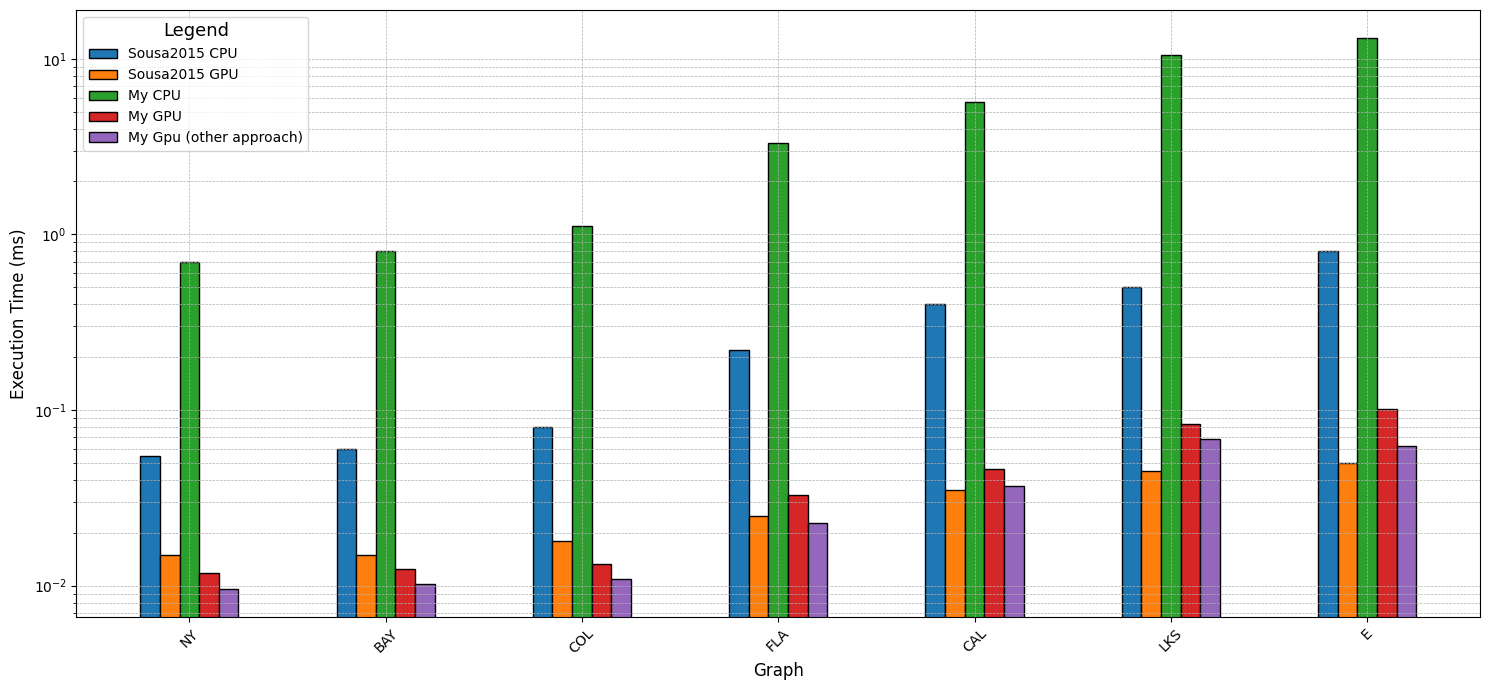
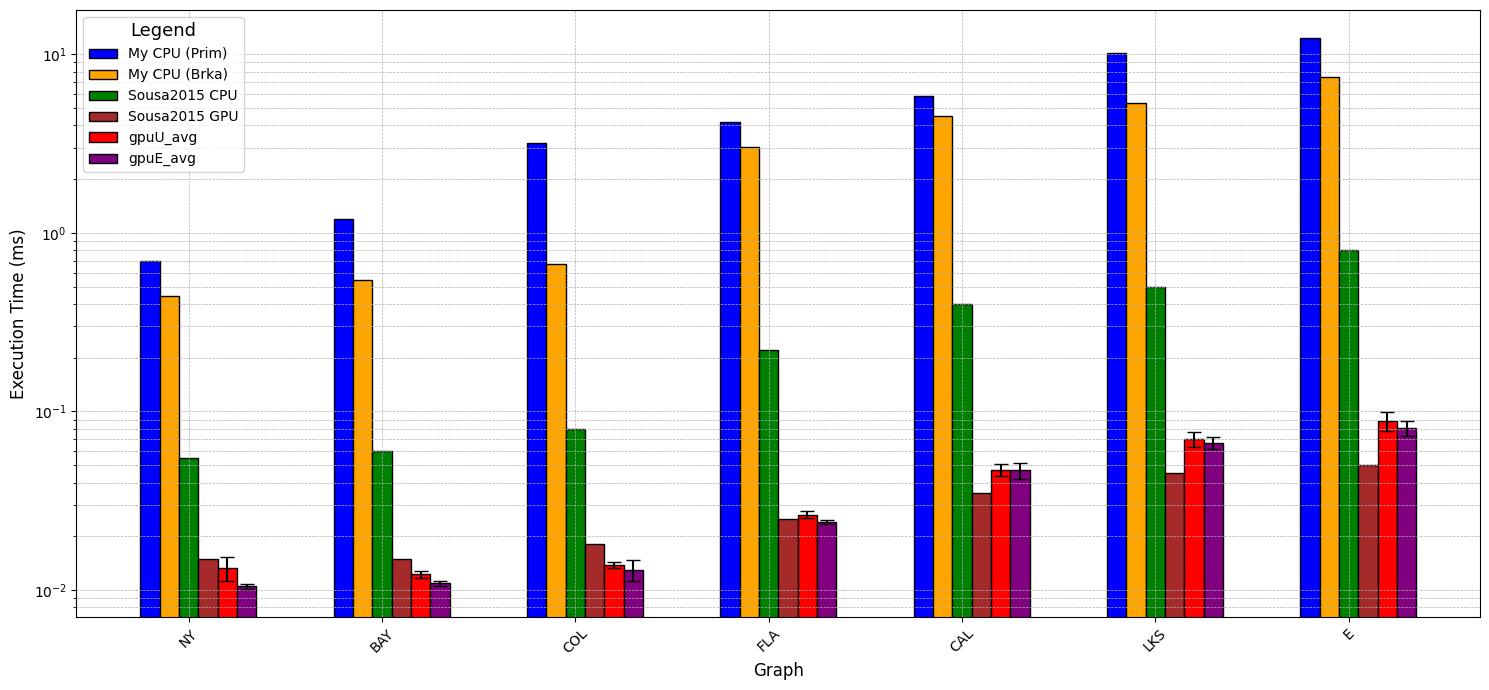
Roba non ne posso più

Changed region(s): [[0.0309, 0.0304, 1.0, 0.9435]]

diff --git a/main.tex b/main.tex
@@ -49,9 +49,9 @@ In my implementation I have implemented both the Na\"ive version and the one usi
 
 Kruskal's algorithm is the alternative to Prim's algorithm and it works in time $\O(m\log{m})$ if implemented using classical data structures.
 
-\brka's algorithm is a solver for the \mstp based on forests, a more verbose version of the algorithm shown in~\cite{boruvka-pseudocode} can be found in~\ref{algo:boruvka-pseudocode}
+\brkas algorithm is a solver for the \mstp based on forests, a more verbose version of the algorithm shown in~\cite{boruvka-pseudocode} can be found in~\ref{algo:boruvka-pseudocode}
 \begin{algorithm}
-	\caption{\brka's algorithm}
+	\caption{\brkas algorithm}
 	\label{algo:boruvka-pseudocode}
 	\begin{algorithmic}[1]
 		\REQUIRE An undirected, connected and weighted graph $G$, an empty set of edges $T$
@@ -73,7 +73,7 @@ Kruskal's algorithm is the alternative to Prim's algorithm and it works in time 
 
 Let us suppose that the size of the graph $|V|$ is $n$ and the number of edges $E$ is $m$, then the computational complexity of the pseudocode shown in~\ref{algo:boruvka-pseudocode} is $\O(m\log{n})$. This algorithm has been later reused in combination with other techniques to compute a solution for the \mstp very efficiently~\cite{boruvka-ackermann}~\cite{karger-klein-tarjan}.
 
-While parallel solutions based on Prim's or Kruskal's algorithm exists like~\cite{prim-parallel}~\cite{filter-kruskal} \brka's solver gained more traction thanks to its inherent parallelizability. Regardless of the implementation the core of the parallel variant can be identified in the following four steps as identified in~\cite{boruvka-steps}:
+While parallel solutions based on Prim's or Kruskal's algorithm exists like~\cite{prim-parallel}~\cite{filter-kruskal} \brkas solver gained more traction thanks to its inherent parallelizability. Regardless of the implementation the core of the parallel variant can be identified in the following four steps as identified in~\cite{boruvka-steps}:
 \begin{enumerate}
 	\item\label{item:first-step} (\textit{choose lightest}) for every vertex the lightest edge is chosen in parallel.
 	\item\label{item:second-step} (\textit{find root}) for every vertex we find the root of the tree to which it belongs\footnote{It's important to keep in mind that vertices are actually supervertices.}.
@@ -84,7 +84,7 @@ While parallel solutions based on Prim's or Kruskal's algorithm exists like~\cit
 The specific implementation that I chose to follow is shown in~\cite{generic-he-boruvka} and is summarized by algorithm~\ref{algo:boruvka-parallel}
 
 \begin{algorithm}
-	\caption{\brka's algorithm}\label{algo:boruvka-parallel}
+	\caption{\brkas algorithm}\label{algo:boruvka-parallel}
 	\begin{algorithmic}[1]
 		\REQUIRE An undirected, connected and weighted graph $G(V, E)$
 		\WHILE{$|V| > 1$}
@@ -141,7 +141,7 @@ Since the implementation worked but was in fact extremely slow compared to finer
 decided to scrap it in favour of a more efficient implementation of Prim's algorithm based on
 the use of a simple heap to sort the edges needed to build the \mst.
 
-Since time complexity of Prim's solver using a heap is $\O(m \cdot \log{n})$, as shown in\ref{sec:intro}. I decided to implement Prim's algorithm instead of \brka's solver since the first one is much simpler and, as far as efficiency goes, the two solvers have comparable speeds.
+I additionally implemented \brkas algortithm which proves to have better performance, as shown in Section \ref{sec:performance-analysis}, when working with sparse graphs if compared to the original Prim's solver.
 
 \bigskip
 \phantomsection
@@ -149,7 +149,7 @@ Since time complexity of Prim's solver using a heap is $\O(m \cdot \log{n})$, as
 \noindent
 \textbf{GPU IMPLEMENTATION:}
 \\
-As I alluded to in~\ref{sec:intro} I chose to follow~\cite{generic-he-boruvka} as my primary source. In the paper the researchers propose an higlhly efficient and parallel variant of \brka's solver for the GPU.
+As I alluded to in~\ref{sec:intro} I chose to follow~\cite{generic-he-boruvka} as my primary source. In the paper the researchers propose an higlhly efficient and parallel variant of \brkas solver for the GPU.
 
 Per~\cite{generic-he-boruvka} every part of the solution can be implemented as a distinct kernel
 deploying a thread per vertex (such an approach is referred to as \textit{topologic} in the
@@ -224,33 +224,26 @@ All of the benchmarks conducted are part of the tests provided for DIMACS\footno
 	\textit{New York}                & $\num{264346}$   & $\num{733846}$  \\\hline
 	\textit{San Francisco, bay area} & $\num{321270}$   & $\num{800172}$  \\\hline
 	\textit{Colorado}                & $\num{435666}$   & $\num{1057066}$ \\\hline
-	\textit{Florida}                 & $\num{ 070376}$  & $\num{2712798}$ \\\hline
-	\textit{California and Nevada}   & $\num{ 1890815}$ & $\num{4657742}$ \\\hline
+	\textit{Florida}                 & $\num{1070376}$  & $\num{2712798}$ \\\hline
+	\textit{California and Nevada}   & $\num{1890815}$ & $\num{4657742}$ \\\hline
 	\textit{Great Lakes}             & $\num{2758119}$  & $\num{6885658}$ \\\hline
 	\textit{Eastern USA}             & $\num{3598623}$  & $\num{8778114}$
 \end{longtable}
-Before discussing the results I want to point out that my GPU implementation gave very good results compared to the CPU code I wrote in the beginning, therefore in Figure~\ref{fig:results}, I decided to include both the GPU and CPU results listed in the original paper~\cite{generic-he-boruvka}.
-
-While I believe the CPU to be directly comparable with my results, since the architecture of the system used to test the code is closely related to the hardware that is running underneath Colab's environment, the plotted GPU results are more of a testament to the work that has been done prior.
+The testing results plotted in~\ref{fig:results} was obtained by running the same tests listed in~\ref{tbl:benchmarks} $5$ times for both GPU approaches, average and standard deviation for the timings were then computed and plotted. I decided to include also some performance measures taken from the original paper, specifically the GPU and CPU (single thread) average elapsed times for reference.
 \begin{figure}
 	\centering
 	\includegraphics[scale=0.4]{fig/benchmarks.png}
 	\caption{Performance metrics for the various platforms compared with the results in \cite{generic-he-boruvka}}
 	\label{fig:results}
 \end{figure}
-Computing the speedups for my GPU code, which is evidently less efficient than the one proposed in~\cite{generic-he-boruvka}, with respect to my CPU the results are in the neighbourhood of $\sim59\times$ to $\sim128\times$. Considering instead the results from the authors I get that the speedup is in between $\sim5\times$ and $\sim8\times$.
+Considering the various CPU implementations plotted in Figure~\ref{fig:results} speedup for GPU-e, with respect to \brka implementation, ranges between $\sim42\times$ and $\sim92\times$, while the speedup for GPU-u ranges between $\sim33\times$ and $\sim83\times$. Considering Prim's implementation the speedup for GPU-e ranges between $\sim66\times$ and $\sim150\times$, while the speedup for GPU-u ranges between $\sim52\times$ and $\sim136\times$.
 
-To further check the timings for my implementation I ran the same test (the East (E) benchmark) $5$ times, took the average and standard deviation of the elapsed times and plotted them in Figure~\ref{fig:avg-std-timings} where results for GPU-e and GPU-u are compared. Keeping the considerations limited to the results plotted in~\ref{fig:avg-std-timings} it's clear that the better solution is to stick with higher thread counts; that is because for smaller thread blocks the results are either: worse, in the case of the normal GPU-u approach, or have a higher instability for the GPU-e approach. Furthermore this consolidates the idea that the GPU-e approach results ever so slightly better than the original GPU-u one.
-\begin{figure}
-	\centering
-	\includegraphics[width=0.4\textwidth]{fig/timings.png}
-	\caption{Performance metrics for the two GPU implementations with respect to varying thread block size}
-	\label{fig:avg-std-timings}
-\end{figure}
-The \emph{occupancy} metric for a kernel $\mathcal{K}$ on a GPU is defined as the ratio of active warps on an SM to the maximum number of active warps supported by the SM~\cite{def-occupancy}. To test for it Nvidia provides the tool Nsight Compute (\texttt{ncu}). The results have been plotted in figure~\ref{fig:occupancy}, as we can see the general occupancy is inversely proportional to the number of iterations, that was to be expected because I followed a topologic approach, which means that the number of threads used by each kernel is going to be just as many as it's required to occupy every single thred with the computation for one vertex.
+Comparing my GPU implementations with the CPU approaches proposed in\cite{generic-he-boruvka}, based on OpenMP, we can see that both of my solutions consistently beat the single-threaded version (seen in Figure~\ref{fig:results}) with an estimated speedup between $\sim5\times$ and $\sim10\times$ while the speedup for the multithreaded implementation is closer to $1$ (which can only be found in the source material).
 
-Probably the most interesting takeaway that we can get from Figure~\ref{fig:occupancy} is the fact that the two kernels \texttt{GraphContractionCopy} (GCC) and \texttt{cumulatedDegreesUpdateCopy} (CDUC) show on average to have much better occupancy compared to the original \texttt{graphContraction} (GC) and \texttt{cumulatedDegreesUpdate} (CDU). Albeit the implementation of the "copy" kernels is not extraordinary, the approach is different, instead of having one thread per vertex in this second implementation I used one thread per edge, which in turn means that the GPU is going to be, on average, more occupied than it would otherwise be and it's less impacted by the contraction operation performed on the graph at every iteration of the loop.
+\medskip
+The \emph{occupancy} metric for a kernel $\mathcal{K}$ on a GPU is defined as the ratio of active warps on an SM to the maximum number of active warps supported by the SM~\cite{def-occupancy}. To test for it Nvidia provides the tool Nsight Compute (\texttt{ncu}). The results have been plotted in figure~\ref{fig:occupancy}, as we can see the general occupancy is inversely proportional to the number of iterations, that was to be expected because I followed a topologic approach, which means that the number of threads used by each kernel is going to be just as many as it's required to occupy every single thred with the computation for one vertex. Furthermore the number of threads per block is $1024$, thus the occupancy falls towards the end of the execution.
 
+In Figure~\ref{fig:occupancy} I highlighted the fact that the two kernels \texttt{GraphContractionCopy} (GCC) and \texttt{cumulatedDegreesUpdateCopy} (CDUC) show on average to have much better occupancy compared to the original \texttt{graphContraction} (GC) and \texttt{cumulatedDegreesUpdate} (CDU). Albeit the implementation of the "copy" kernels is not incredibly efficient, using one thread per edge translates to higher occupancy rating for the kernels despite the  which in turn means that the kernels will have a higher occupancy rating despite the decreasing graph size.
 \begin{figure}[!h]
 	\centering
 	\includegraphics[scale=0.5]{fig/occupancy.png}
@@ -266,13 +259,13 @@ Probably the most interesting takeaway that we can get from Figure~\ref{fig:occu
 \\
 \mstp will never stop to amaze due to how much can be done with the solution to a relatively simple problem. As I explained in~\ref{sec:intro} \mstp solvers have been used and are being used extensively to solve a wide gamma of larger problems, therefore there is no "being too fast".
 
-In the previous sections I explained how I got to the solution following somebody else's footsteps but much is still unknown, although the original paper was published under the title "A generic and highly efficient parallel variant of \brka's algorithm" it's immediately clear by taking a look at what kind of tests have been done on the solver (all similar to~\ref{tbl:benchmarks}) that the solution is not as "generic" as the authors would like it to be and it's highly likely it will perform as amazing as it does in the benchmarks shown in~\ref{fig:results} only if the graph is actually sparse (or the degree is limited).
+In the previous sections I explained how I got to the solution following somebody else's footsteps but, as always, more work can be done.
 
-As soon as the graph becomes more dense the complexity of computing simple kernels like the ones shown in~\ref{sec:gpu-implementation}, which contain a \texttt{for} loop to comply with the topologic approach, will explode~\footnote{The "critique" I just moved is merely based on speculation because I do not have access to the original source code}.
+Although the original paper was published under the title "A generic and highly efficient parallel variant of \brkas algorithm" it's immediately clear by taking a look at what kind of tests have been done on the solver (all similar to~\ref{tbl:benchmarks}) that the solution is not as "generic" as the authors would like it to be, and it's highly likely it will keep on performing on graphs with limited density.
 
-As shown in Section~\ref{sec:performance-analysis} the results obtained using an approach different from the topologic one yielded better results on average, therefore it's safe to assume that trying an implementation entirely based on this different approach and takling the kernels that suffer the most might improve performance furhter. To this point, the authors of the source material mentioned very briefly, the possibility of implementing a segmented scan approach for the \texttt{findCheapest} operation, I think that this approach, with some additional work, can be extended to most of the kernels and it could lead to a more efficient version of GPU-e.
+As shown in Section~\ref{sec:performance-analysis} the results obtained by trying a different approach yielded mixed results on average, therefore it's not entirely clear whether an approach entirely based on visiting edges (which would work through segmented scans and similar) instead of vertices would be beneficial, and lead to better results, or detrimental, because of the heavy use of atomic operations and synchronization.
 
-It would be interesting, in this field, to keep on analyzing further techniques, considering more generic graphs. This can be acheived by trying to solve the problem following the same approach I used for this implementation, therefore using repeated contractions by rank; or by shifting paradigm~\cite{mst-bipartite}.
+It would be interesting, to keep experimenting and finding different ways of computing \mst in parallel like~\cite{mst-bipartite}.
 
 \clearpage
 
